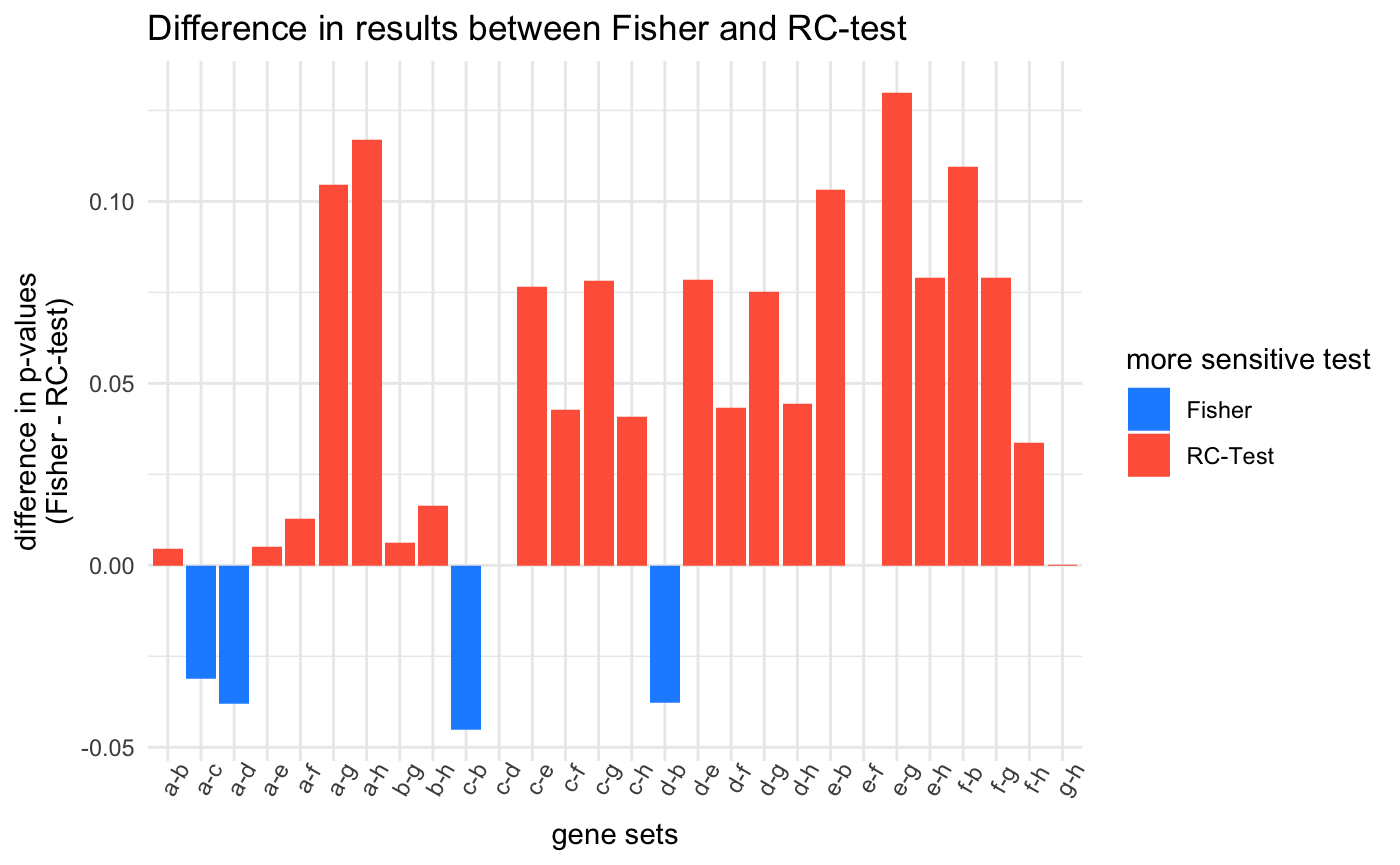
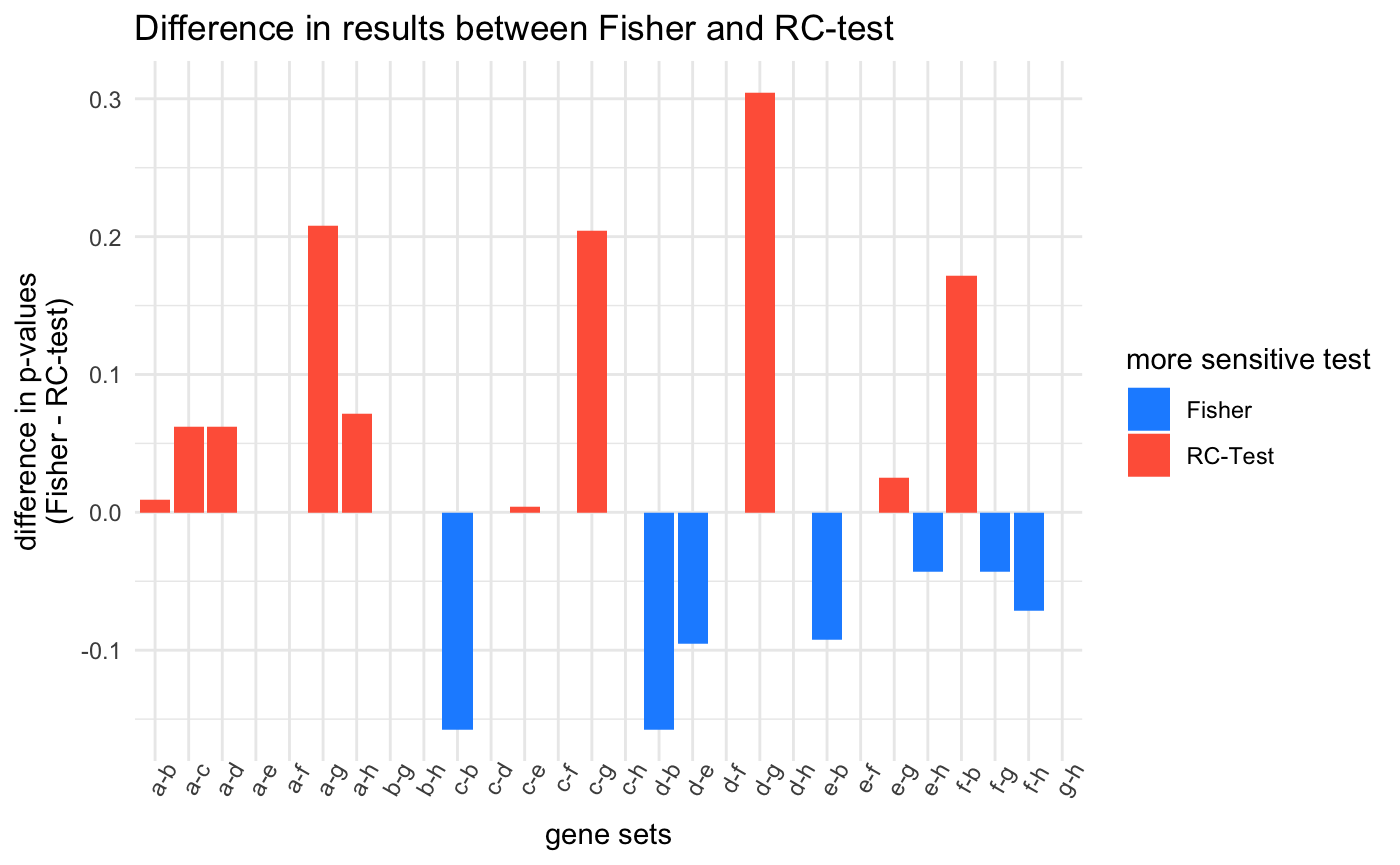
trying to speed up vignettes

Changed region(s): [[0.0614, 0.0, 0.7679, 0.9988], [0.7371, 0.7491, 0.7679, 0.7803]]

diff --git a/docs/articles/compare_rc_to_fisher.html b/docs/articles/compare_rc_to_fisher.html
@@ -247,7 +247,7 @@
 <a href="#row-column-exclusivity-test" class="anchor"></a>Row-Column Exclusivity test</h3>
 <p>This test conditions on the rows and columns of the mutation matrix, thus accounting for the number of mutations per gene and per sample. This comes at a cost in speed of computation as the RC test is much slower to run. Here, I run the test using 10,000 permutations. Also, the paramters <code>min_mut_events</code> and <code>min_times_mut</code> are set to 0 becasue the test data set is so small; on real data, these should be non-zero values (the defaults are 2 and 3, respectively) to ignore very rare events.</p>
 <div class="sourceCode" id="cb6"><pre class="sourceCode r"><code class="sourceCode r"><a class="sourceLine" id="cb6-1" data-line-number="1">rc_res &lt;-<span class="st"> </span><span class="kw"><a href="../reference/rc_test.html">rc_test</a></span>(simple_dataset, sample_name, mutated_gene, <span class="dt">k =</span> <span class="dv">2</span>,</a>
-<a class="sourceLine" id="cb6-2" data-line-number="2">                  <span class="dt">which_test =</span> <span class="st">"exclusivity"</span>, <span class="dt">N_perms =</span> <span class="fl">1e4</span>,</a>
+<a class="sourceLine" id="cb6-2" data-line-number="2">                  <span class="dt">which_test =</span> <span class="st">"exclusivity"</span>, <span class="dt">N_perms =</span> <span class="dv">10</span>,</a>
 <a class="sourceLine" id="cb6-3" data-line-number="3">                  <span class="dt">min_mut_events =</span> <span class="dv">0</span>, <span class="dt">min_times_mut =</span> <span class="dv">0</span>) <span class="op">%&gt;%</span><span class="st"> </span></a>
 <a class="sourceLine" id="cb6-4" data-line-number="4"><span class="st">  </span><span class="kw">mutate</span>(<span class="dt">gene_sets_print =</span> purrr<span class="op">::</span><span class="kw"><a href="https://purrr.tidyverse.org/reference/map.html">map_chr</a></span>(gene_sets, <span class="op">~</span><span class="st"> </span><span class="kw"><a href="https://www.rdocumentation.org/packages/base/topics/paste">paste0</a></span>(.x[[<span class="dv">1</span>]], <span class="st">"-"</span>, .x[[<span class="dv">2</span>]]))) <span class="op">%&gt;%</span><span class="st"> </span></a>
 <a class="sourceLine" id="cb6-5" data-line-number="5"><span class="st">  </span><span class="kw">arrange</span>(p_val, gene_sets_print)</a></code></pre></div>

diff --git a/src/swap_an_edgeC.cpp b/src/swap_an_edgeC.cpp
@@ -35,7 +35,8 @@ IntegerVector swap_an_edgeC(IntegerVector n1, IntegerVector n2, int N, int max_t
     IntegerVector random_edges = sample(n_edges, total_attempts, true) - 1;
 
     // perform all edge swaps or hit maximum fails
-    while (successes <= N & counter <= total_attempts) {
+    while (successes < N & counter < total_attempts) {
+        // Rcout << "Counter: " << counter << std::endl;
         // get first edge and its nodes to swap
         int rand_e1 = random_edges[counter];
         int rand_n11 = n1[rand_e1];
@@ -52,11 +53,9 @@ IntegerVector swap_an_edgeC(IntegerVector n1, IntegerVector n2, int N, int max_t
         if (!is_true(all(idx))) {
             // vector of other edges to swap with
             IntegerVector available_edges;
-            int available_edges_counter = 0;
             for (int k=0; k<n_edges; k++) {
                 if (idx[k] == false) {
                     available_edges.push_back(k);
-                    available_edges_counter++;
                 }
             }
 
